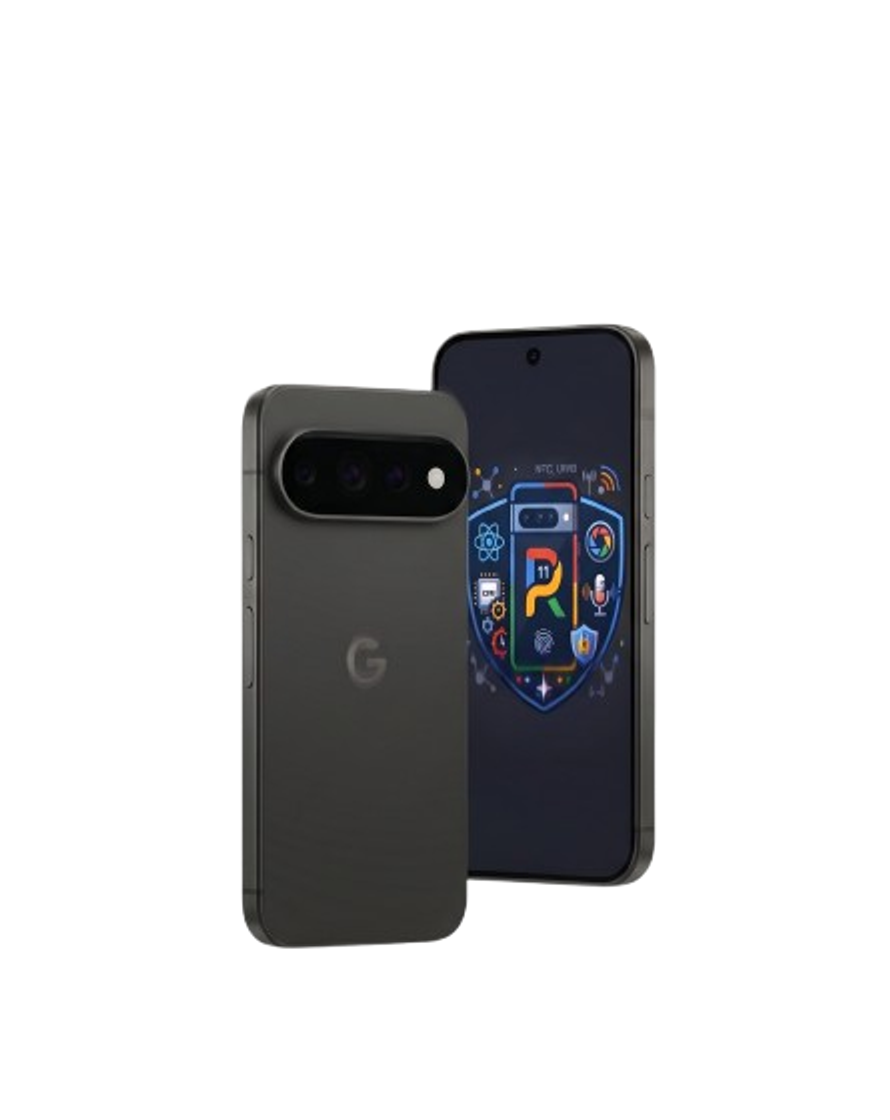
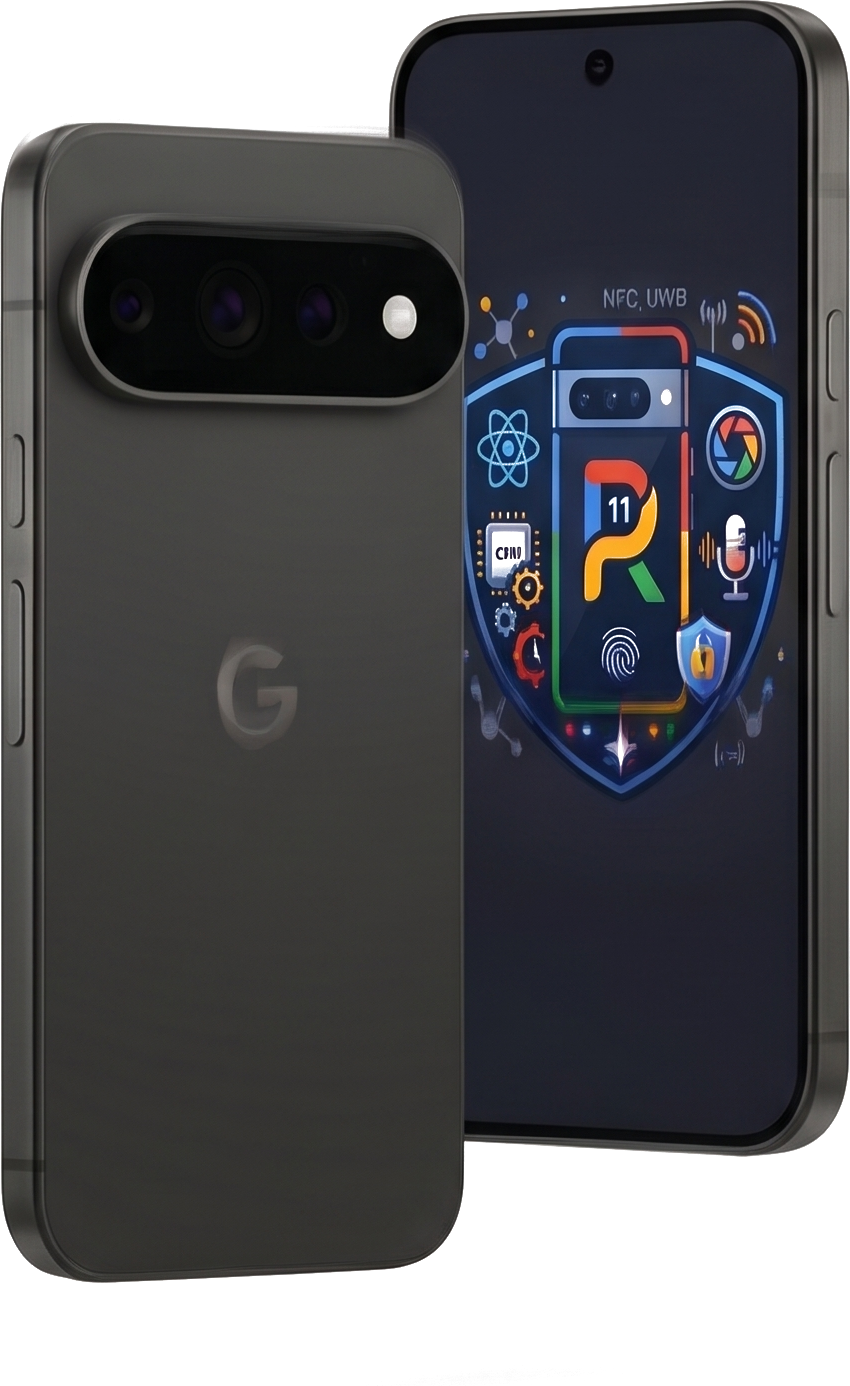
docs: cut the hero from the full-resolution original, so it sits up and is sharp
The device sat low because 74% of the transparent PNG was empty: the phone occupied
417x627 of an 890x1120 frame and began 322px down from the top. The element was
aligned correctly; the picture inside it was not.

That PNG was also a 445px remove.bg preview, which put the real device at roughly
208x313 - so any display size above that was upscaling.

Both are fixed by keying the 1824x2296 original instead. Its background is a smooth
light-grey gradient and the device is far darker, so alpha derived from luminance with
a feathered band between 186 and 214 separates them cleanly, and trimming leaves the
device tight in frame at 850x1386. Checked by compositing onto the site's own
background colour before adopting it: no halo, no chewed edges.

Size caps come down to suit the new 0.61 aspect, which is much taller than the padded
frame it replaces.

Claude-Session: https://claude.ai/code/session_01K18iLN2Fwe55vNyMXKgXE7

diff --git a/src/styles/pixelkit.css b/src/styles/pixelkit.css
@@ -167,10 +167,10 @@
      lets the two maxima apply together and the aspect ratio survive. */
   width: auto;
   height: auto;
-  max-width: min(24rem, 100%);
+  max-width: min(16rem, 100%);
   /* Height cap so a tall portrait device cannot push the hero copy and buttons below the fold on a
      short viewport. On a tall screen the width governs; on a short one this does. */
-  max-height: 88vh;
+  max-height: 72vh;
   margin-inline: auto;
   filter: drop-shadow(0 1.25rem 2.5rem rgb(0 0 0 / 0.5));
 }
@@ -198,7 +198,7 @@
 
 @media (min-width: 50rem) {
   .hero .pixel-hero {
-    max-width: min(30rem, 100%);
+    max-width: min(20rem, 100%);
   }
 }
 
@@ -208,7 +208,7 @@
     grid-template-columns: 1fr 1.25fr;
   }
   .hero .pixel-hero {
-    max-width: min(37.5rem, 100%);
+    max-width: min(24rem, 100%);
   }
 }
 
@@ -233,6 +233,6 @@
   }
   .hero > .hero-html {
     /* Nudge the device down slightly so its top edge does not sit dead level with the title. */
-    padding-top: 1rem;
+    padding-top: 0.5rem;
   }
 }
